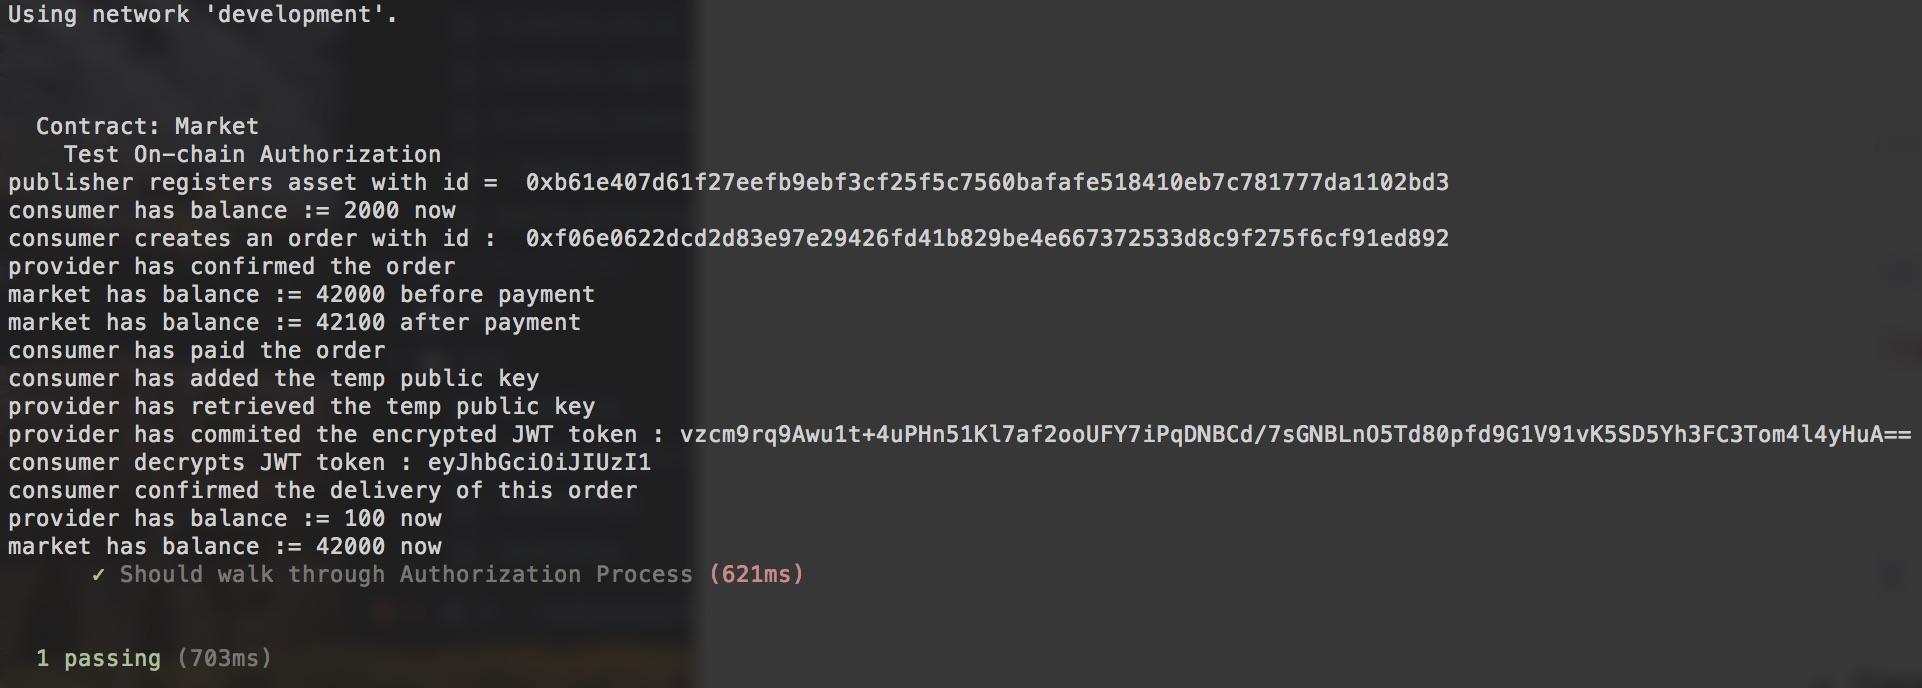
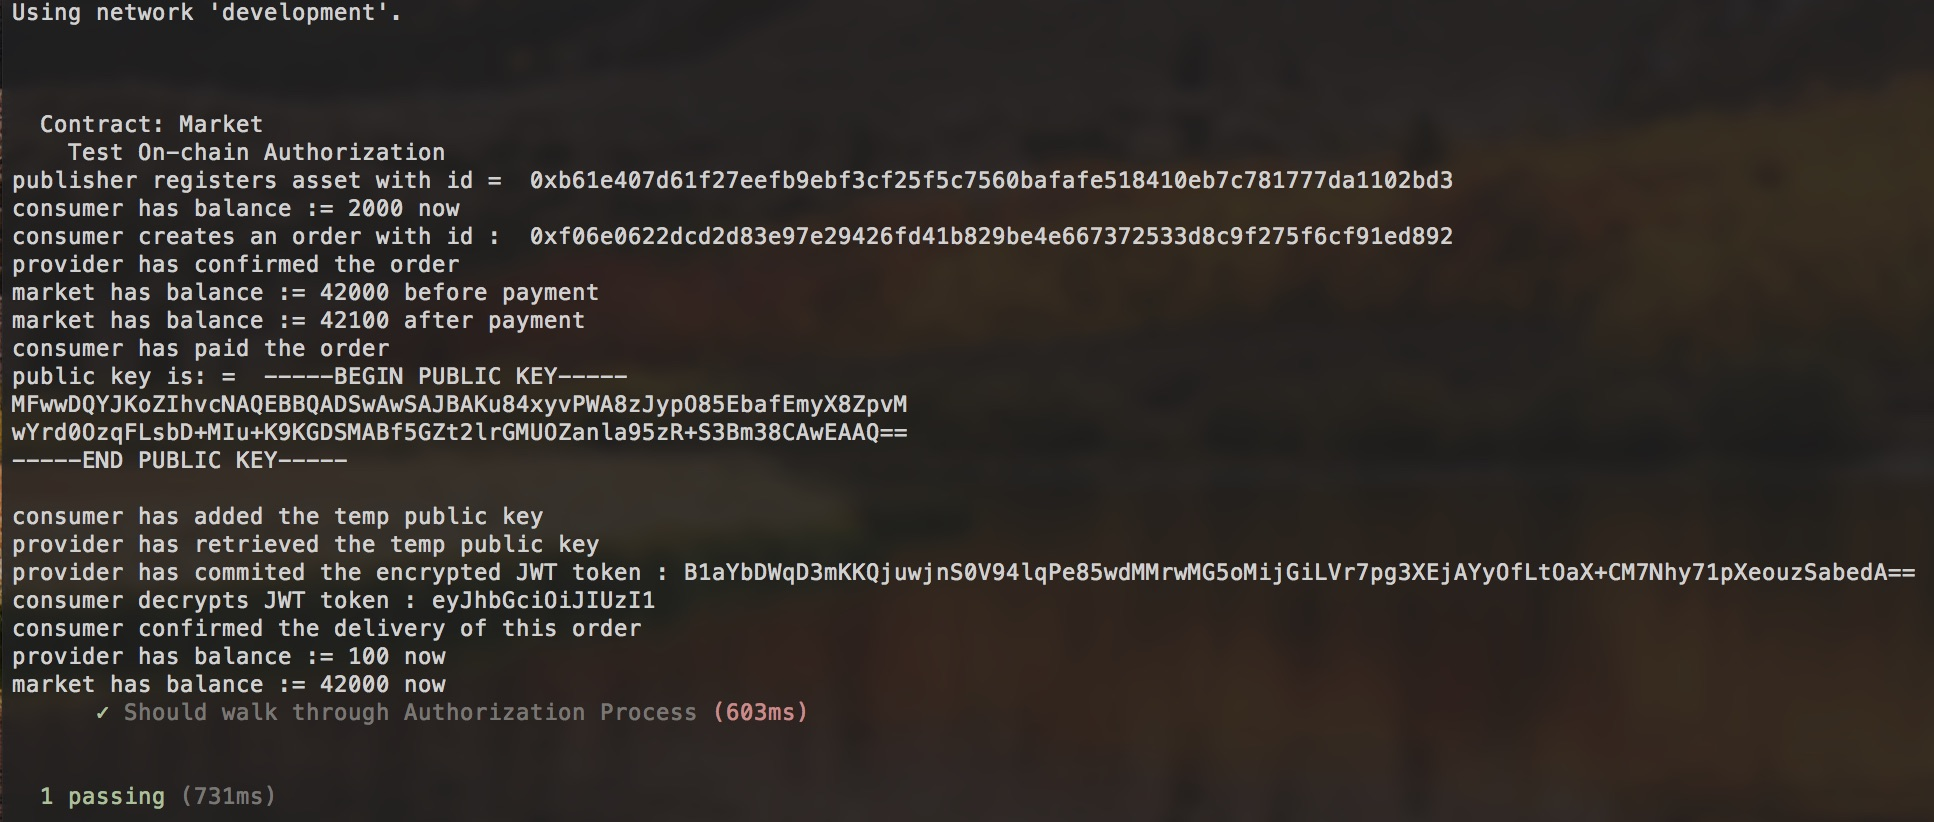
update

diff --git a/test/TestACL.js b/test/TestACL.js
@@ -53,17 +53,25 @@ contract('Market', (accounts) => {
             const key = ursa.generatePrivateKey(modulusBit, 65537)
             const privatePem = ursa.createPrivateKey(key.toPrivatePem())
             const publicPem = ursa.createPublicKey(key.toPublicPem())
[1 lines of base64/hex data omitted]
+            // convert public key into string so that to store on-chain
+            const publicKey = publicPem.toPublicPem('utf8')
+            console.log('public key is: = ', publicKey)
+
             // consumer add temp public key
-            await acl.addTempPubKey(orderId, publickKey, { from: accounts[1] })
+            await acl.addTempPubKey(orderId, publicKey, { from: accounts[1] })
             console.log('consumer has added the temp public key')
 
-            // 6. provider query the temp public key
-            await acl.queryTempKey(orderId, { from: accounts[0] })
+            // 6. provider query the temp public key string from on-chain order
+            const OnChainPubKey = await acl.queryTempKey(orderId, { from: accounts[0] })
             console.log('provider has retrieved the temp public key')
+            assert.strictEqual(publicKey, OnChainPubKey, 'two public keys should match.')
 
             // 7. provider encrypt the JWT token
-            const encJWT = publicPem.encrypt('eyJhbGciOiJIUzI1', 'utf8', 'base64')
+            // provider convert the retrieved public key string into Public Key
+            const getPubKeyPem = ursa.coerceKey(OnChainPubKey)
+            // encrypt the JWT token using public key
+            const encJWT = getPubKeyPem.encrypt('eyJhbGciOiJIUzI1', 'utf8', 'base64')
+            // const encJWT = publicPem.encrypt('eyJhbGciOiJIUzI1', 'utf8', 'base64')
             await acl.addToken(orderId, encJWT, { from: accounts[0] })
             console.log('provider has commited the encrypted JWT token :', encJWT.toString())
 
